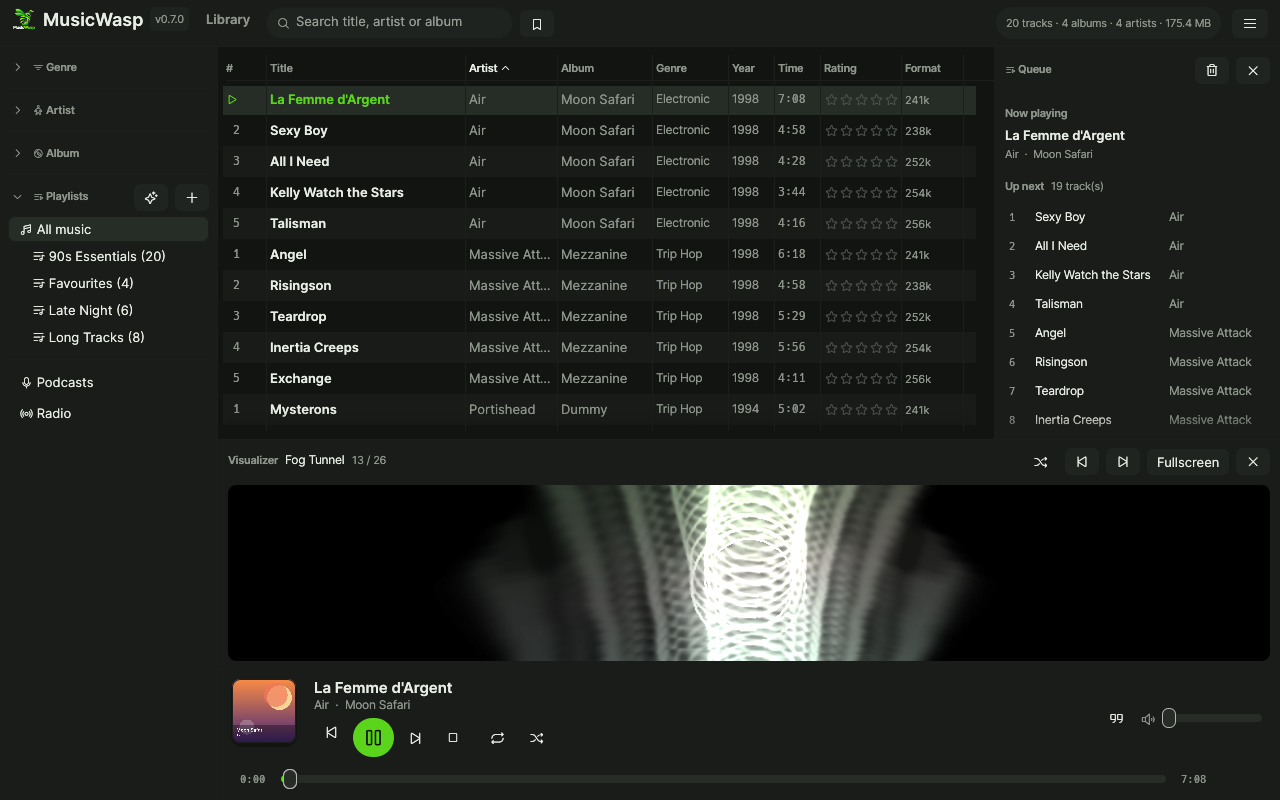
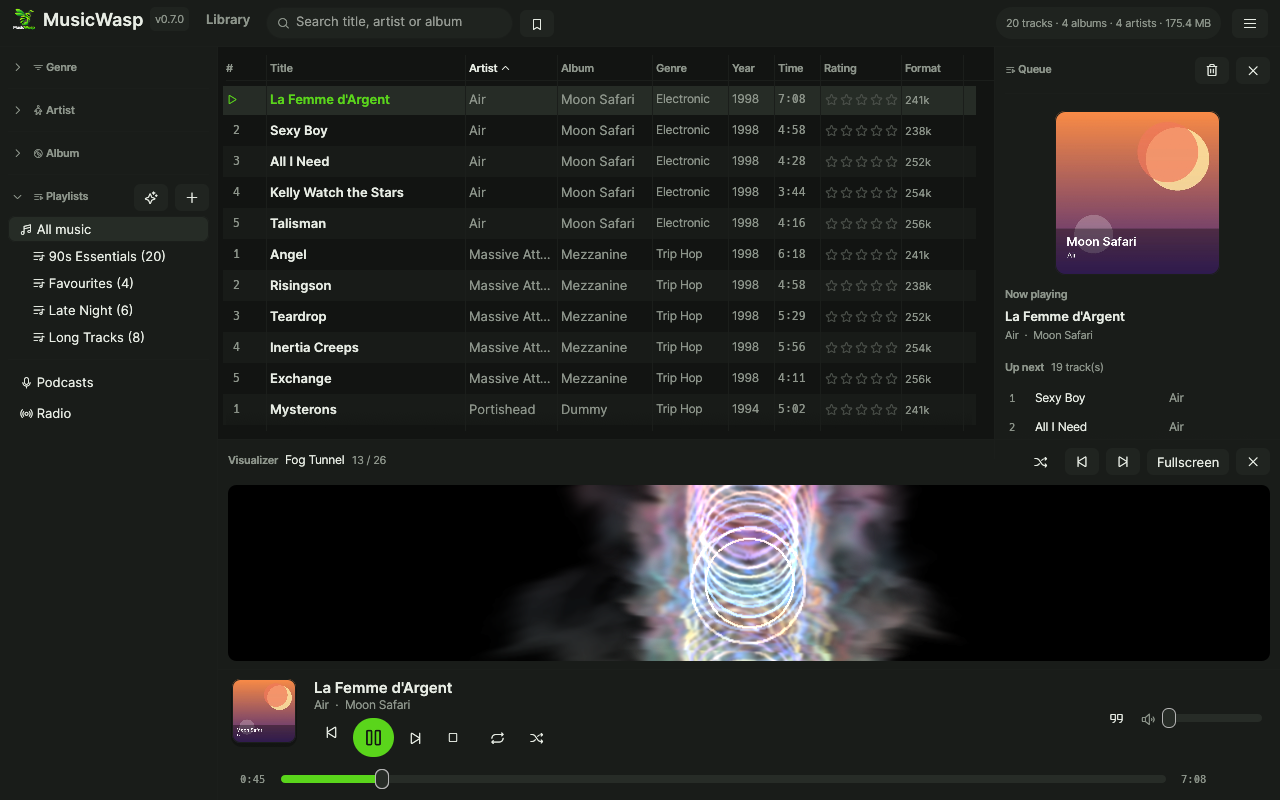
Added album art to the top of the play queue.

diff --git a/gui/src/ui.rs b/gui/src/ui.rs
@@ -1328,7 +1328,39 @@ pub fn queue_panel(app: &mut App, ui: &mut egui::Ui) {
                 divider(ui);
 
                 if let Some(track) = &current_track {
-                    ui.add_space(4.0);
+                    ui.add_space(8.0);
+                    let cover = (ui.available_width() * 0.62).clamp(120.0, 176.0);
+                    ui.vertical_centered(|ui| {
+                        let (rect, _) =
+                            ui.allocate_exact_size(egui::vec2(cover, cover), egui::Sense::hover());
+                        match &app.art {
+                            Some((_, tex)) => {
+                                egui::Image::new((tex.id(), rect.size()))
+                                    .corner_radius(th::corner(10))
+                                    .paint_at(ui, rect);
+                            }
+                            None => {
+                                ui.painter()
+                                    .rect_filled(rect, th::corner(10), th::bg_row_alt());
+                                ui.painter().text(
+                                    rect.center(),
+                                    egui::Align2::CENTER_CENTER,
+                                    icons::MUSIC_NOTES.as_str(),
+                                    egui::FontId::proportional(cover * 0.28),
+                                    th::text_dim(),
+                                );
+                            }
+                        }
+                        if !th::is_square() {
+                            ui.painter().rect_stroke(
+                                rect,
+                                th::corner(10),
+                                egui::Stroke::new(1.0, th::hairline()),
+                                egui::StrokeKind::Inside,
+                            );
+                        }
+                    });
+                    ui.add_space(8.0);
                     ui.label(
                         th::semibold(tr("queue.now_playing"), th::TEXT_CAPTION)
                             .color(th::text_dim()),
